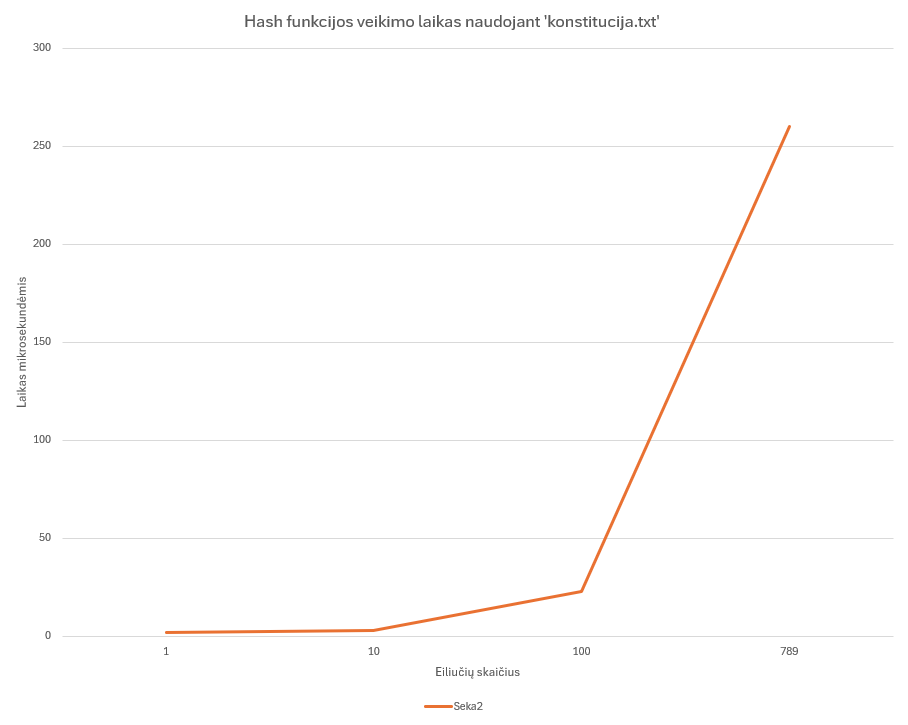
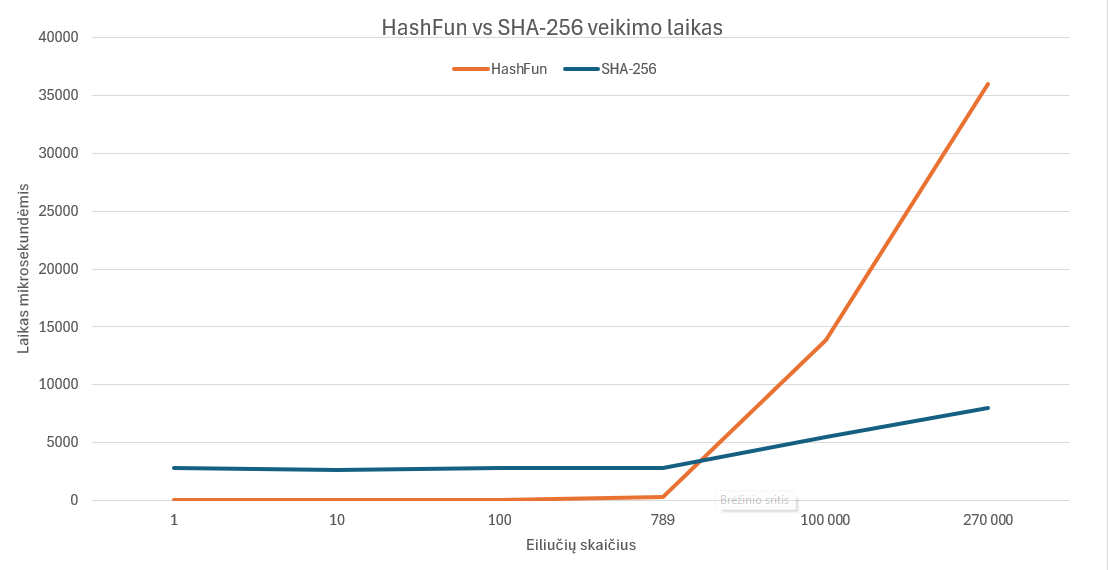
Į programą implementuota SHA-256 funkcija, kartu su ja atlikti 1-4 eksperimnetai ir palyginimai. Pataisytas 4 eksperimentas su HashFun ir atnaujintas grafikas

diff --git a/hash.cpp b/hash.cpp
@@ -5,6 +5,8 @@
 #include <limits>
 #include <chrono>
 #include <random>
+#include <iomanip>
+#include <openssl/sha.h>
 using namespace std;
 
 string HashFun(const string& str)
@@ -30,12 +32,13 @@ string HashFun(const string& str)
         out4[i] = h[i] ^ (h[i+4] << 1) ^ (h[(i+2)%8] >> 1);
     }
 
-    auto end = std::chrono::high_resolution_clock::now();
-    auto duration = std::chrono::duration_cast<std::chrono::microseconds>(end-start);
-    //cout << "Hash funkcijos veikimo laikas: " << duration.count() << " microseconds" << endl;
-
     char out [65];
     snprintf(out, sizeof(out), "%016llx%016llx%016llx%016llx", out4[0], out4[1], out4[2], out4[3]);
+
+    auto end = std::chrono::high_resolution_clock::now();
+    auto duration = std::chrono::duration_cast<std::chrono::microseconds>(end-start);
+    cout << "Hash funkcijos veikimo laikas: " << duration.count() << " microseconds" << endl;
+    
     return string(out);
 }
 
@@ -181,9 +184,29 @@ string ProgramStart()
     return input;
 }
 
+string sha256(const string &input)
+{
+    auto start = std::chrono::high_resolution_clock::now();
+
+    unsigned char hash[SHA256_DIGEST_LENGTH];
+    SHA256((const unsigned char*)input.c_str(), input.size(), hash);
+    ostringstream oss;
+    for (int i = 0; i < SHA256_DIGEST_LENGTH; ++i) {
+        oss << std::hex << std::setw(2) << std::setfill('0') << (int)hash[i];
+    }
+
+    auto end = std::chrono::high_resolution_clock::now();
+    auto duration = std::chrono::duration_cast<std::chrono::microseconds>(end-start);
+    cout << "Hash funkcijos veikimo laikas: " << duration.count() << " microseconds" << endl;
+
+    return oss.str(); 
+}
+
+
 int main()
 {
     string input = ProgramStart();
-    cout << "Hash funkcija: " << HashFun(input) << endl;
+    cout << "Hashfun rezultatas: " << HashFun(input) << endl;
+    cout << "SH-A256 rezultatas: " << sha256(input) << endl;
     return 0;
 }

diff --git a/README.md b/README.md
@@ -49,7 +49,7 @@ END
 
 ## Eksperimentinis tyrimas
 
-Šiame projekte tiriama mano sukurta HashFun. Tikslas – įvertinti jos savybes pagal užduoties reikalavimus.
+Šiame projekte tiriama mano sukurta HashFun. Tikslas – įvertinti jos savybes pagal užduoties reikalavimus ir palyginti jas su standartine **SHA-256** funkcija.
 
 ---
 
@@ -66,43 +66,64 @@ Eksperimentams sukuriau kelis failus su skirtingu turiniu:
 | `rnd1000000.txt`  | 1 000 000 atsitiktinių simbolių                               |
 | `rndF100000.txt`  | 100 000 atsitiktinių simbolių                                 |
 | `rndS100000.txt`  | Kaip rndF100000.txt, bet pakeistas 75 000-asis simbolis       |
+| `10mb.txt`        | Didžiausias failas su daugiau nei 10 000 000 simbolių         |
+
+Šie failai naudoti tiek su HashFun, tiek su SHA-256, kad būtų galima tiesiogiai palyginti rezultatus.
 
 ## 2. Išvedimo dydis
 
-Paleidau savo HashFun tuščiam failui, failui su a, failui su b ir failams su 100 000 bei 1 000 000 atsitiktinių simbolių. Kiekvienu atveju gauta 64 hex'ų eilutė. Tai atitinka 256 bitų ilgį ir įrodo, kad išvedimo dydis nepriklauso nuo įvesties.
+- **HashFun:** visada sugeneruoja 64 simbolių (256 bitų) heksadecimalinę eilutę.  
+- **SHA-256:** taip pat visada grąžina 64 simbolių (256 bitų) heksadecimalinę eilutę.
 
-| Failas          | Hash rezultatas                                                 |
-|-----------------|-----------------------------------------------------------------|
-| `blank.txt`     |e1e10ec33852dafdad0a90ef0edf56b9f7c1425813bc42d0a67386e5c1269b78 |
-| `a.txt`         |13fbc56937664ae5ce4503508cf94ba6b82eaa19b9bc3c5bb8a7950b485df478 |
-| `b.txt`         |0cce237961797622b9053b0d5e7c7c56848bcec8da55ef82c46496b265eee872 |
-| `rnd100000.txt` |bf6fb7e57c24cee30ce7d062523997b2dcef0b49b1218c91dea9fca4751126f2 |
-| `rnd1000000.txt`|afe953bc81c149bb814f8da11f69edd37b52b149d43643c1d85c4b5974b9c521 |
+| Failas          | HashFun rezultatas                                              | SHA-256 rezultatas                                                       |
+|-----------------|-----------------------------------------------------------------|-----------------------------------------------------------------|
+| `blank.txt`     |e1e10ec33852dafdad0a90ef0edf56b9f7c1425813bc42d0a67386e5c1269b78 | e3b0c44298fc1c149afbf4c8996fb92427ae41e4649b934ca495991b7852b855 |
+| `a.txt`         |13fbc56937664ae5ce4503508cf94ba6b82eaa19b9bc3c5bb8a7950b485df478 |ca978112ca1bbdcafac231b39a23dc4da786eff8147c4e72b9807785afee48bb|
+| `b.txt`         |0cce237961797622b9053b0d5e7c7c56848bcec8da55ef82c46496b265eee872 |3e23e8160039594a33894f6564e1b1348bbd7a0088d42c4acb73eeaed59c009d|
+| `rnd100000.txt` |bf6fb7e57c24cee30ce7d062523997b2dcef0b49b1218c91dea9fca4751126f2 |c253e0ba462db43db95286964de626fcf4e931f4f5c0434e840d57598b0fc7df|
+| `rnd1000000.txt`|afe953bc81c149bb814f8da11f69edd37b52b149d43643c1d85c4b5974b9c521 |19be1f718f2145ce5e23690366f811db2793cb7c3214a76bc9c076c71247ef14|
+
+Tai įrodo, kad abi funkcijos išlaiko pastovų išvedimo ilgį nepriklausomai nuo įvesties.
 
 ## 3. Deterministiškumas
 
-Kiekvieną testinį failą hash’inau du kartus – rezultatai visada sutapo, todėl funkcija yra deterministinė.
-
+Abi funkcijos yra deterministinės – ta pati įvestis visada duoda tą patį išvedimą.
 Pavyzdys su `a.txt`, abu kartus gautas identiškas rezultatas:
 
+- **HashFun**
[2 lines of base64/hex data omitted]
+
+- **SHA-256 (2 kartus):**
[2 lines of base64/hex data omitted]
 
 Tas pats galioja visiems kitiems failams (`blank.txt`, `b.txt`, `rnd100000.txt`, `rnd1000000.txt`, `rndF100000.txt`, `rndS100000.txt`).
 
 ## 4. Efektyvumas
 
-HashFun greitis buvo matuojamas naudojant `konstitucija.txt` failą. Matavau tik pačios hash funkcijos vykdymo laiką (be failo skaitymo) ir kiekvieną bandymą paleidau kelis kartus bei užrašiau vidutinę trukmę mikrosekundėmis.
+Matavau hash funkcijų veikimo laiką naudojant `konstitucija.txt` failą. Matavau tik pačios hash funkcijos vykdymo laiką (be failo skaitymo) ir kiekvieną bandymą paleidau kelis kartus bei užrašiau vidutinę trukmę mikrosekundėmis.
 
-| Įvedimo dydis (eilučių sk.) | Vidutinis veikimo laikas (µs)|
-|-----------------------------|------------------------------|
-| 1 eilutė                    | 2 µs                         |
-| 10 eilučių                  | 3 µs                         |
-| 100 eilučių                 | 23 µs                        |
-| 789 eilučių (pilnas failas) | 260 µs                       |
+| Įvedimo dydis (eilučių sk.) | HashFun vidutinis veikimo laikas (µs)| SHA-256 vidutinis veikimo laikas (µs)|
+|-----------------------------|--------------------------------------|--------------------------------------|
+| 1 eilutė                    | 17 µs                                | 2 800 µs                             |
+| 10 eilučių                  | 18 µs                                | 2 670 µs                             |
+| 100 eilučių                 | 40 µs                                | 2 800 µs                             |
+| 789 eilučių (pilnas failas) | 270 µs                               | 2 850 µs                             |
+
+Papildomas testas su 10 MB dydžio `10mb.txt`:
+
+| Įvedimo dydis (eilučių sk.)                 | HashFun vidutinis veikimo laikas (µs)| SHA-256 vidutinis veikimo laikas (µs)|
+|---------------------------------------------|--------------------------------------|--------------------------------------|
+| apie 100 000 eilučių                        | 13 900  µs                           | 5 500 µs                             |
+| apie 270 000 eilučių (pilnas failas)        | 36 000 µs                            | 8 000 µs                             |
+
+Rezultatai rodo, kad mažiems failams HashFun yra daug greitesnė už SHA-256. Tačiau su dideliais failais SHA-256 tampa efektyvesnė, nes HashFun veikimo laikas sparčiai auga.
 
 Žemiau rezultatai pateikti naudojant grafiką:
 ![HashFun veikimo laikas](grafikas.png)
+
+----------------------------------------
 
 ## 5. Kolizijų paieška
 
